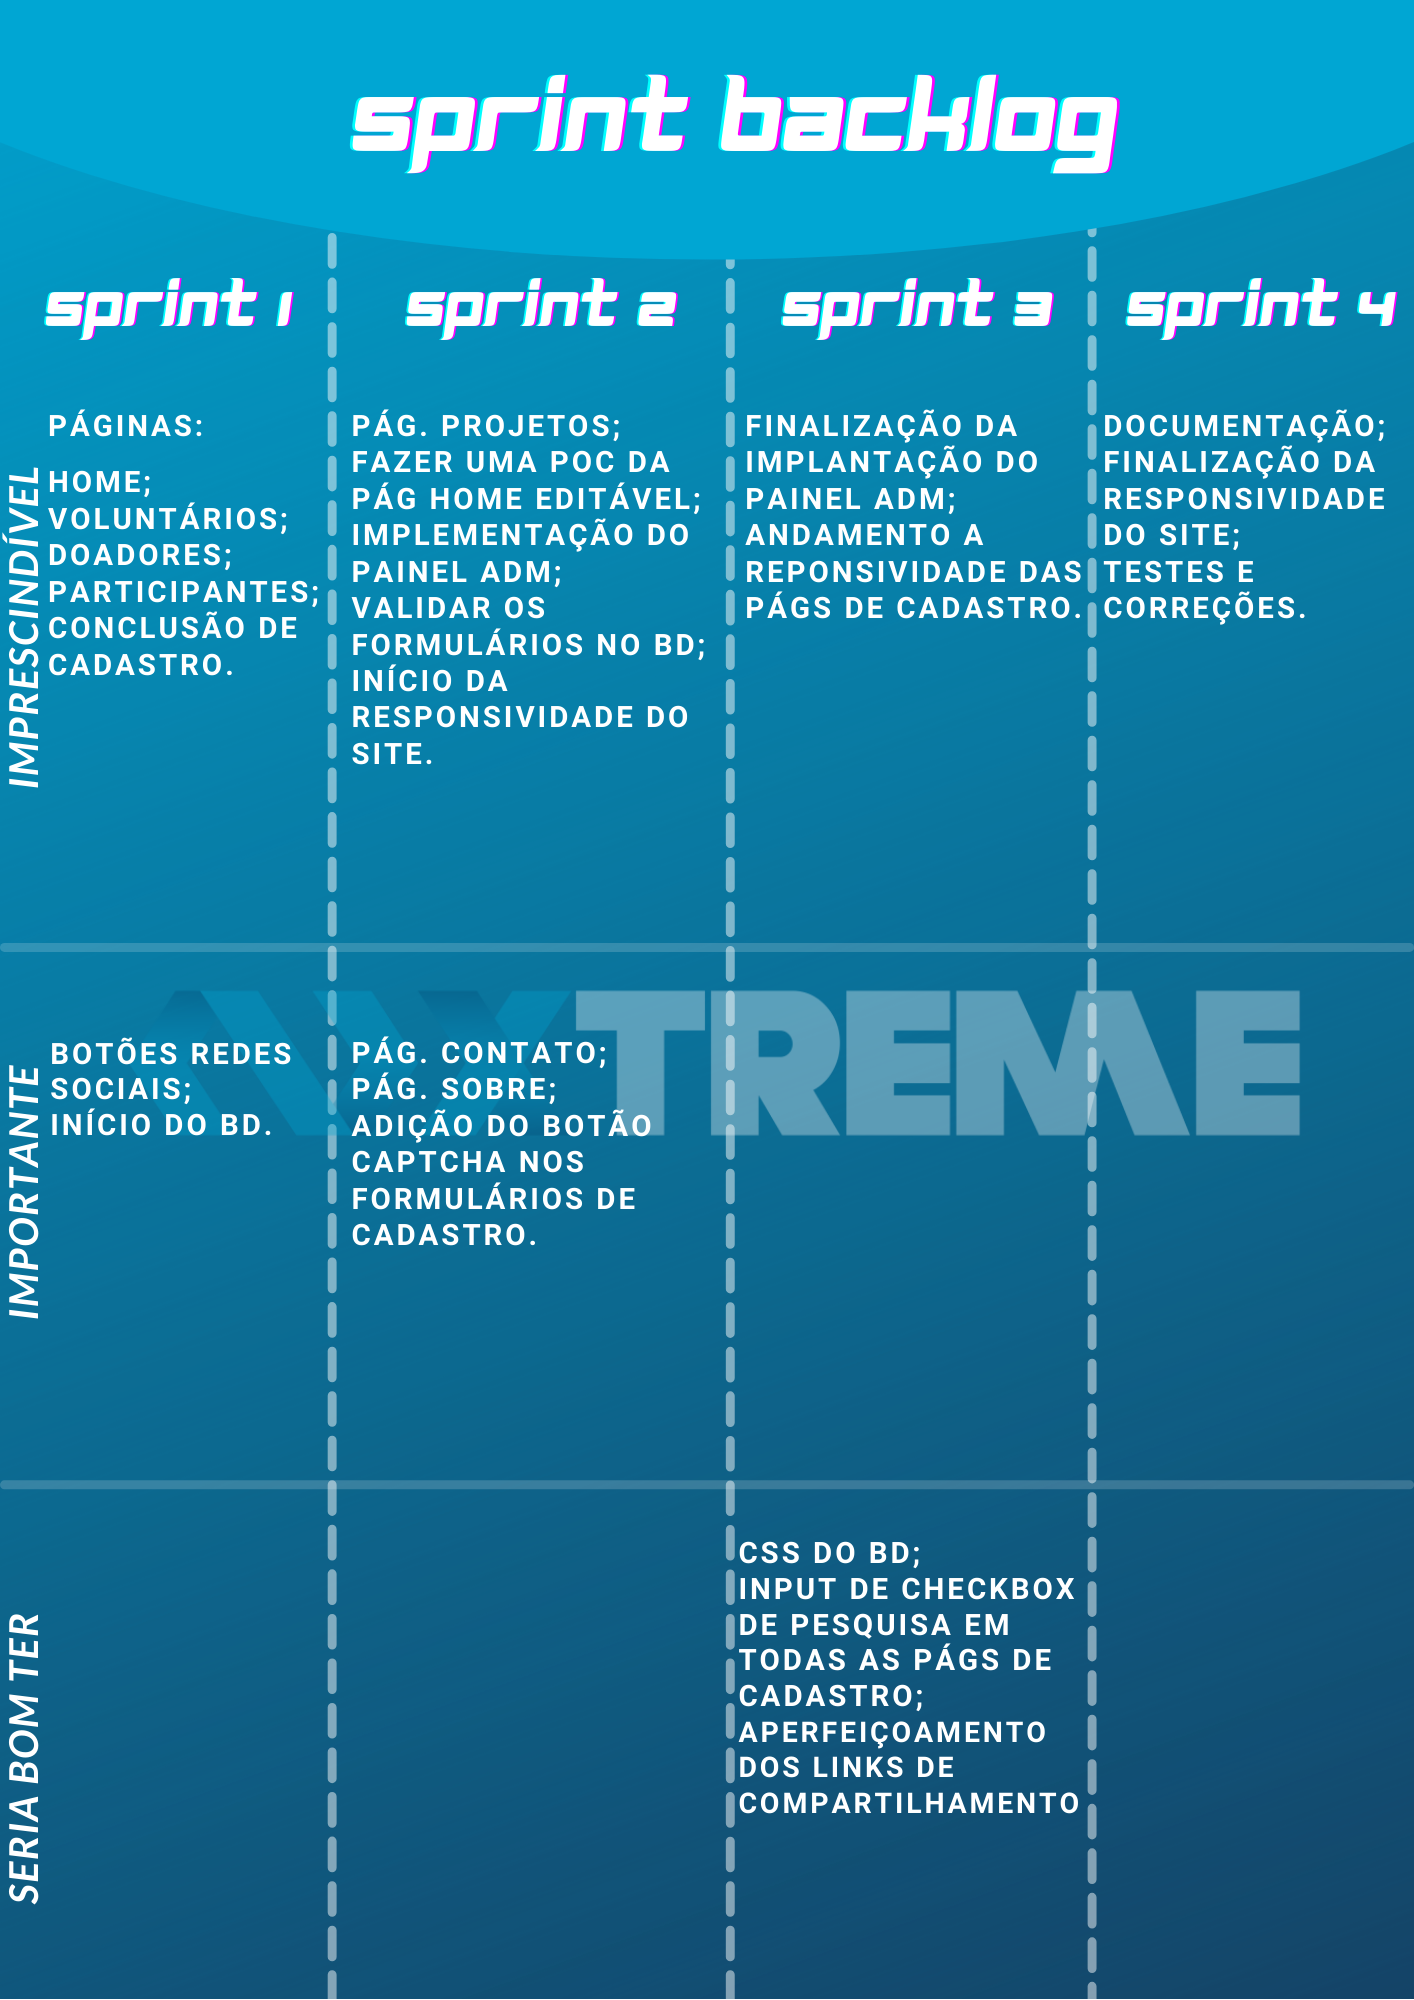
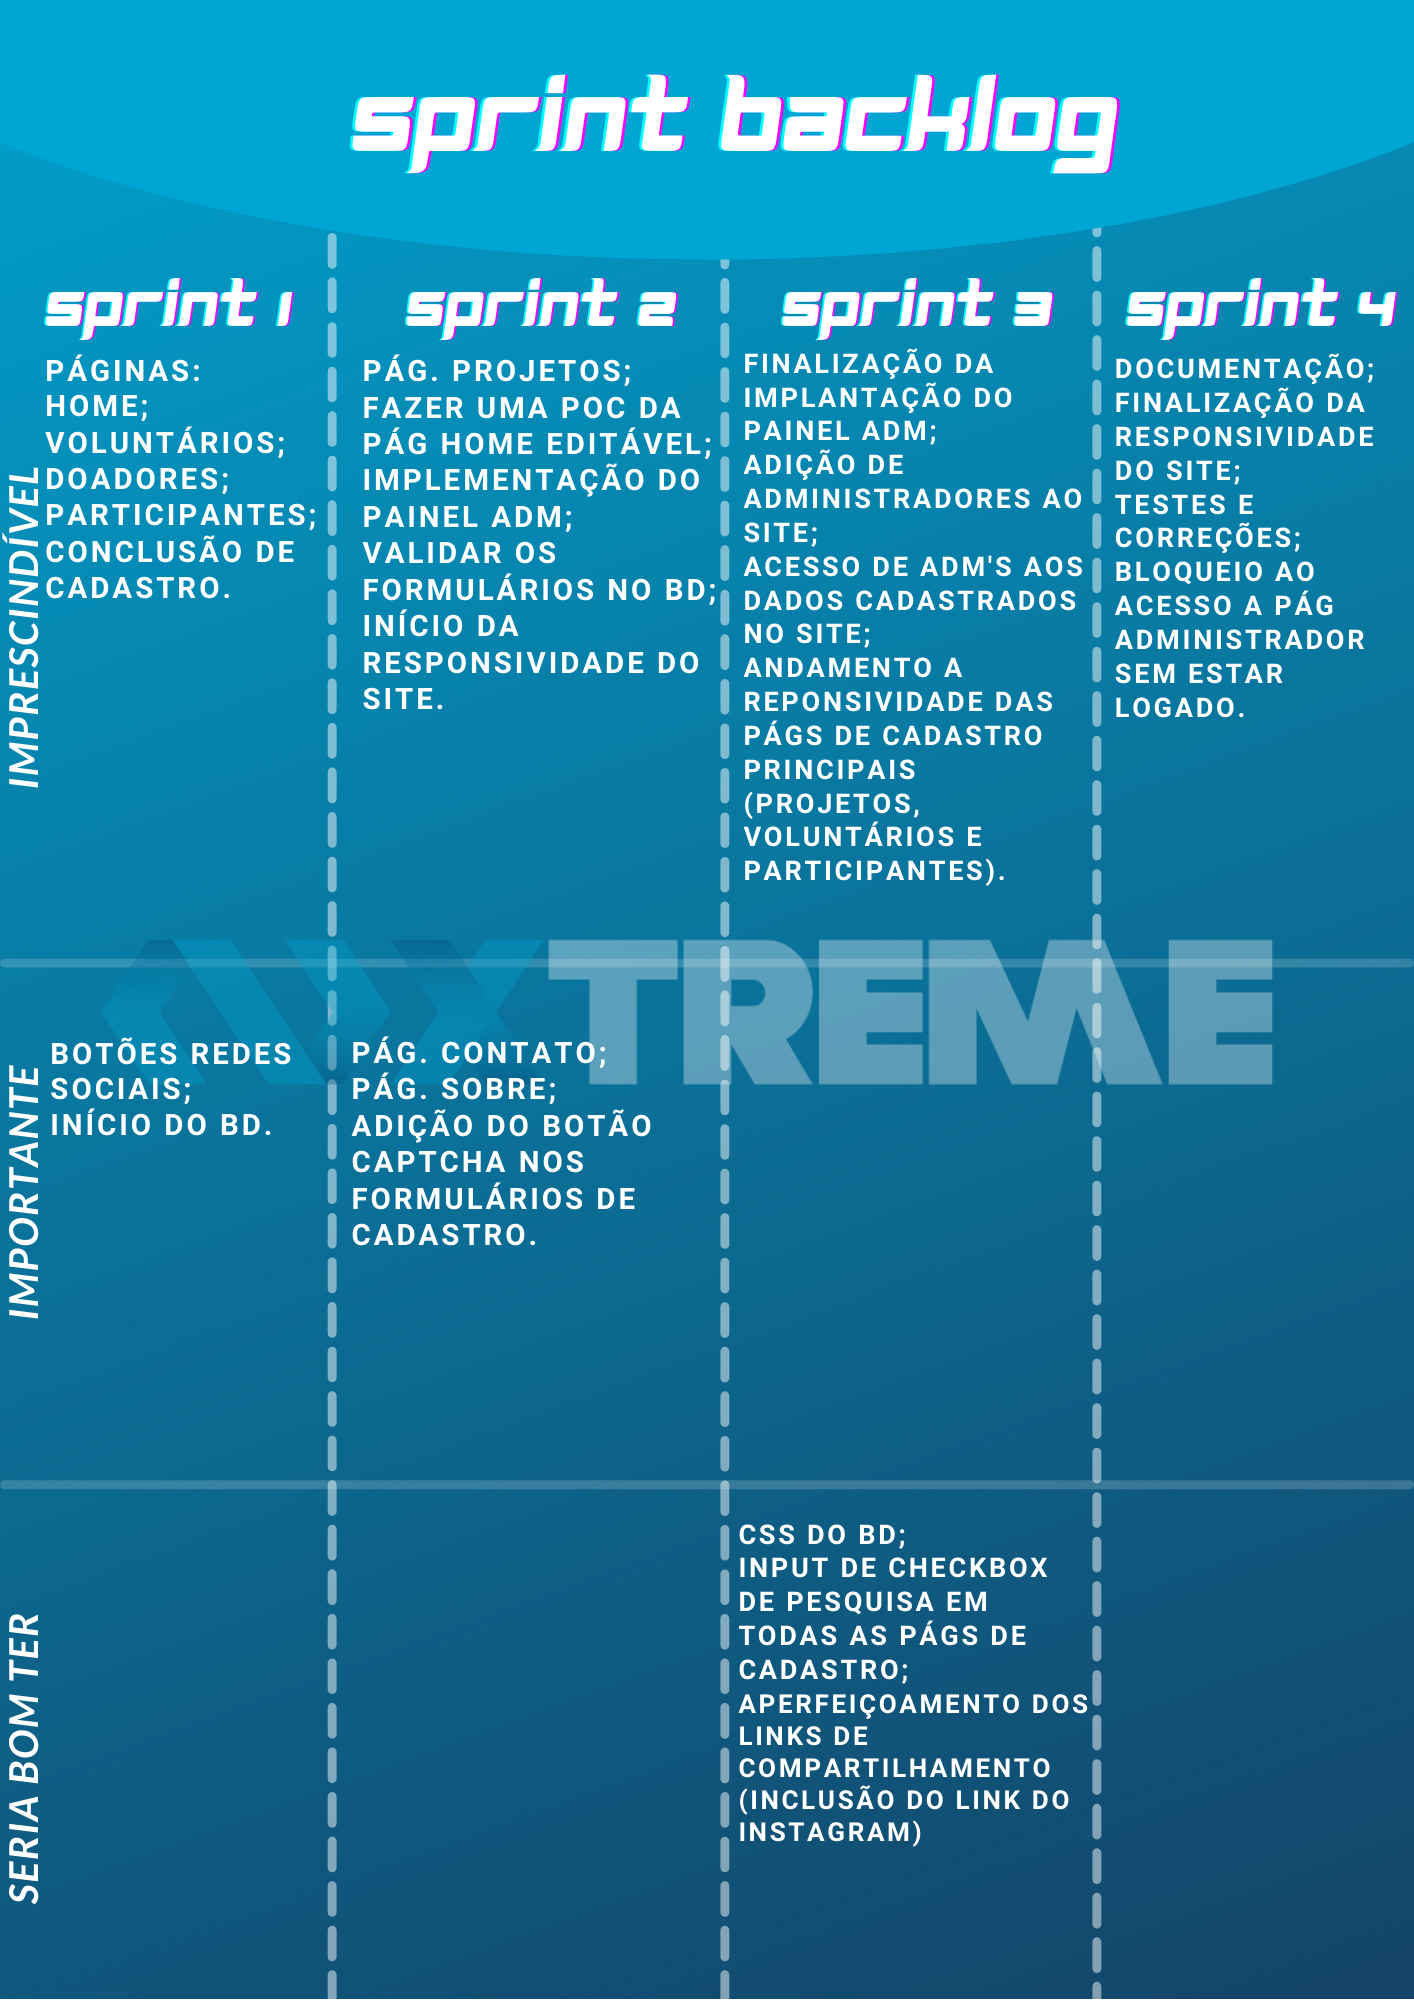
Criado readme para a sprint 3 e corrigido readme principal

Changed region(s): [[0.0, 0.124, 1.0, 1.0], [0.0311, 0.155, 0.2178, 0.341], [0.2178, 0.527, 0.2489, 0.558]]

diff --git a/readme/sprint3/README.md b/readme/sprint3/README.md
@@ -1,0 +1,113 @@
+
+# Xtreme ![Equipe Xtreme](../sprint3/equipe_xtreme_pequeno.png)
+
+## :ballot_box_with_check: SPRINT 3
+
+Nesta Sprint, com o site finalizado, demos ênfase ao painel administrativo, tornando todas as páginas editáveis, inserindo função de adicionar mais administradores ao site e criando uma tela de início ao painel, onde o usuário poderá navegar facilmente entre as funcionalidades de administrador. Demos continuidade a responsividade mobile do site, focando essencialmente nas páginas que foram requisitadas pelo cliente desde o princípio que são: Cadastro de voluntários, cadastro de participantes e cadastro de projetos.
+<br>
+
+## Sprint Backlog 
+
+<h1 align="center"> <img src = "../sprint3/sprint3.png"/></h1>
+<br>
+
+<h1 align="center"> <img src = "../sprint3/sprint_bl_sprint3.png"/></h1>
+<br>
+<h1 align="center"> <img src = "../sprint3/sprint_bl_sprint3_2.png"/></h1>
+<br>
+<h1 align="center"> <img src = "../sprint3/sprint_bl_sprint3_3.png"/></h1>
+<br>
+
+## Burndown da Sprint
+
+<h1 align="center"> <img src = "../sprint3/burndown.png"/></h1>
+
+## Gráfico do Backlog
+
+<h1 align="center"> <img src = "../sprint3/grafico.png"/></h1>
+
+<br>
+
+## :desktop_computer: Funcionalidades da Sprint
+
+<h3 align="center">Página Sobre Editável</h3>
+
+<h1 align="center"> <img src = "../sprint3/sobre_editavel.gif"/></h1>
+
+<br>
+
+<h3 align="center">Página Projetos Editável</h3>
+
+<h1 align="center"> <img src = "../sprint3/projetos_editavel.gif"/></h1>
+
+<br>
+
+<h3 align="center">Página Voluntários Editável</h3>
+
+<h1 align="center"> <img src = "../sprint3/voluntarios_editavel.gif"/></h1>
+
+<br>
+
+<h3 align="center">Página Contato Editável</h3>
+
+<h1 align="center"> <img src = "../sprint3/contato_editavel.gif"/></h1>
+
+<br>
+<h3 align="center">Página Doações Editável</h3>
+
+<h1 align="center"> <img src = "../sprint3/doacao_editavel.gif"/></h1>
+
+<br>
+
+<h3 align="center">Página Participantes Editável</h3>
+
+<h1 align="center"> <img src = "../sprint3/participantes_editavel.gif"/></h1>
+
+<br>
+<h3 align="center">Adicionando Administradores ao site</h3>
+
+<h1 align="center"> <img src = "../sprint3/criando_adm.gif"/></h1>
+<br>
+
+<h3 align="center">Funcionalidades botões tela de início Painel Administrativo</h3>
+
+<h1 align="center"> <img src = "../sprint3/botoes_adm.gif"/></h1>
+
+<br>
+<h3 align="center">Página Projetos Mobile</h3>
+
+<h1 align="center"> <img src = "../sprint3/mobile_projetos.gif"/></h1>
+
+<br>
+<h3 align="center">Página Voluntários Mobile</h3>
+
+<h1 align="center"> <img src = "../sprint3/mobile_voluntarios.gif"/></h1>
+
+<br>
+
+<h3 align="center">Página Participantes Mobile</h3>
+
+<h1 align="center"> <img src = "../sprint3/mobile_participantes.gif"/></h1>
+
+<br>
+<br>
+
+<h3 align="center">Compartilhamento do site</h3>
+
+<h1 align="center"> <img src = "../sprint3/ig.gif"/></h1>
+
+<br>
+<br>
+
+<h3 align="center">CSS "Banco de Dados"</h3>
+
+Tabelas de cadastro do banco de dados sem estilização.
+
+<h1 align="center"> <img src = "../sprint3/dados_bd_antes.png"/></h1>
+
+Tabelas de cadastro do banco de dados estilizado.
+
+<h1 align="center"> <img src = "../sprint3/dados_bd.gif"/></h1>
+
+<br>
+

diff --git a/README.md b/README.md
@@ -56,7 +56,7 @@
 
 - <img src = "./readme/feito.jpeg" /> [SPRINT 2](https://github.com/Xtreme-Equipe/Projeto-Site-Intitucional/tree/main/readme/sprint2) - 29/03/2021 a 18/04/2021
 
-- <img src = "./readme/a_fazer.jpeg" /> [SPRINT 3](https://github.com/Xtreme-Equipe/Projeto-Site-Intitucional/tree/main/readme/sprint3) - 26/04/2021 a 16/05/2021
+- <img src = "./readme/feito.jpeg" /> [SPRINT 3](https://github.com/Xtreme-Equipe/Projeto-Site-Intitucional/tree/main/readme/sprint3) - 26/04/2021 a 16/05/2021
 
 - <img src = "./readme/a_fazer.jpeg" /> [SPRINT 4](https://github.com/Xtreme-Equipe/Projeto-Site-Intitucional/tree/main/readme/sprint4) - 17/05/2021 a 05/06/2021
 
@@ -76,9 +76,9 @@
 <h1 align="center"> <img src = "./readme/tecnologias.png"/></h1>
 
 * **Banco de Dados:** MySQL;
-* **Back-end:** PhP;
+* **Back-end:** PhP, Apache;
 * **Front-end:** HTML, CSS, JavaScript;
-* **Ferramentas:** Visual Studio Code, phpMyAdmin, Miro, Canva, Trello,Marvel, Git e Github;
+* **Ferramentas:** Visual Studio Code, phpMyAdmin, Miro, Canva, Trello, CkEditor, Git e Github;
 
 <br>
 
